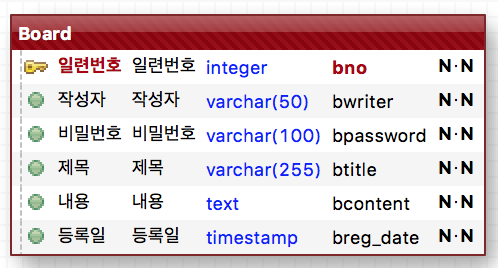
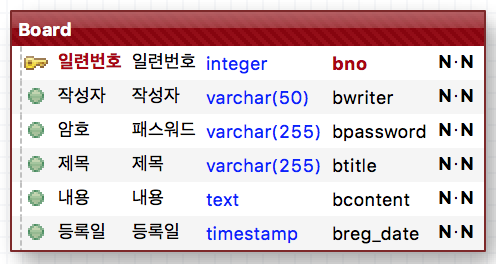
password bcrypt encoding

diff --git a/angular01/routes/board.js b/angular01/routes/board.js
@@ -4,6 +4,7 @@
 var express = require('express');
 var router = express.Router();
 var xss = require("xss");
+var bcrypt = require("bcryptjs");
 
 var Pool = require("pg").Pool;
 var connConfig = require("../config/connConfig.js");
@@ -97,8 +98,8 @@ router.post("/regist", function(req, res, next) {
             board.setBno(row.nextval)
                 .setBtitle(xss(req.body.btitle))
                 .setBcontent(xss(req.body.bcontent))
-                .setBwriter(xss(req.body.bwriter))
-                .setBpassword(xss(req.body.bpassword))
+                .setBwriter((xss(req.body.bwriter)))
+                .setBpassword(bcrypt.hashSync(xss(req.body.bpassword)))
                 .setBregDate(new Date());
         }).on("end", function() {
             client.query("insert into board(bno, btitle, bcontent, bwriter, bpassword, breg_date)"
@@ -140,7 +141,7 @@ router.post("/update", function(req, res, next) {
         var pwdEqui = false;
         var query = client.query("select bpassword from board where bno = " + bno);
         query.on("row", function(row) {
-            if(req.body.bpassword === row.bpassword) pwdEqui = true;
+            if(bcrypt.compareSync(req.body.bpassword, row.bpassword)) pwdEqui = true;
         }).on("end", function() {
             if(pwdEqui) {
                 client.query("update board set btitle = $1, bcontent = $2 "
@@ -160,7 +161,7 @@ router.post("/delete", function(req, res, next) {
         var pwdEqui = false;
         var query = client.query("select bpassword from board where bno = " + bno);
         query.on("row", function(row) {
-            if(req.body.bpassword === row.bpassword) pwdEqui = true;
+            if(bcrypt.compareSync(req.body.bpassword, row.bpassword)) pwdEqui = true;
         }).on("end", function() {
             if(pwdEqui) {
                 client.query("delete from board where bno= " + bno);
